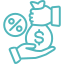
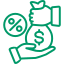
10-07-2023
icon  updated hero responsive done

Changed region(s): [[0.0312, 0.0, 0.9688, 1.0]]

diff --git a/assets/css/style.scss b/assets/css/style.scss
@@ -42,7 +42,7 @@ Typography
 :root {
     --body-font: 'Jost', sans-serif;
     --heading-font: 'Jost', sans-serif;
-    --primary-color: #51B6BB;
+    // --primary-color: #51B6BB;
     --primary-color: #009868;
     --heading-color: #26282C;
     --black: #26282C;
@@ -61,7 +61,6 @@ Typography
     --input-color: #FAFAFA;
     --primary-color-opacity-low: rgba(0, 153, 105, 0.1);
     --soft-red-opacity-low: rgba(216, 42, 103, 0.1);
-    // --bg-color1: #FCF2EC;
     --bg-color1: rgba(0, 153, 105, 0.1);
     --bg-color2: #F1F3F4;
     --bg-color3: #152748;
@@ -88,12 +87,12 @@ Reset section start
 
 ::-moz-selection {
     color: #fff;
-    background: #3368fa;
+    background: #009868;
 }
 
 ::selection {
     color: #fff;
-    background: #3368fa;
+    background: #009868;
 }
 
 /*----------------------------------------------
@@ -1790,9 +1789,10 @@ Padding bottom
 }
 
 .navbar {
-    transition: all 0.5s ease-in-out;
+    transition: var(--transition);
     padding: 20px;
     z-index: 9999;
+    
 
     .navbar-toggler {
         background: var(--primary-color);

diff --git a/assets/css/style.css b/assets/css/style.css
@@ -36,7 +36,6 @@ Typography
 :root {
   --body-font: "Jost", sans-serif;
   --heading-font: "Jost", sans-serif;
-  --primary-color: #51B6BB;
   --primary-color: #009868;
   --heading-color: #26282C;
   --black: #26282C;
@@ -78,12 +77,12 @@ Reset section start
 
 ::-moz-selection {
   color: #fff;
-  background: #3368fa;
+  background: #009868;
 }
 
 ::selection {
   color: #fff;
-  background: #3368fa;
+  background: #009868;
 }
 
 /*----------------------------------------------
@@ -1596,7 +1595,7 @@ Padding bottom
 }
 
 .navbar {
-  transition: all 0.5s ease-in-out;
+  transition: var(--transition);
   padding: 20px;
   z-index: 9999;
 }
